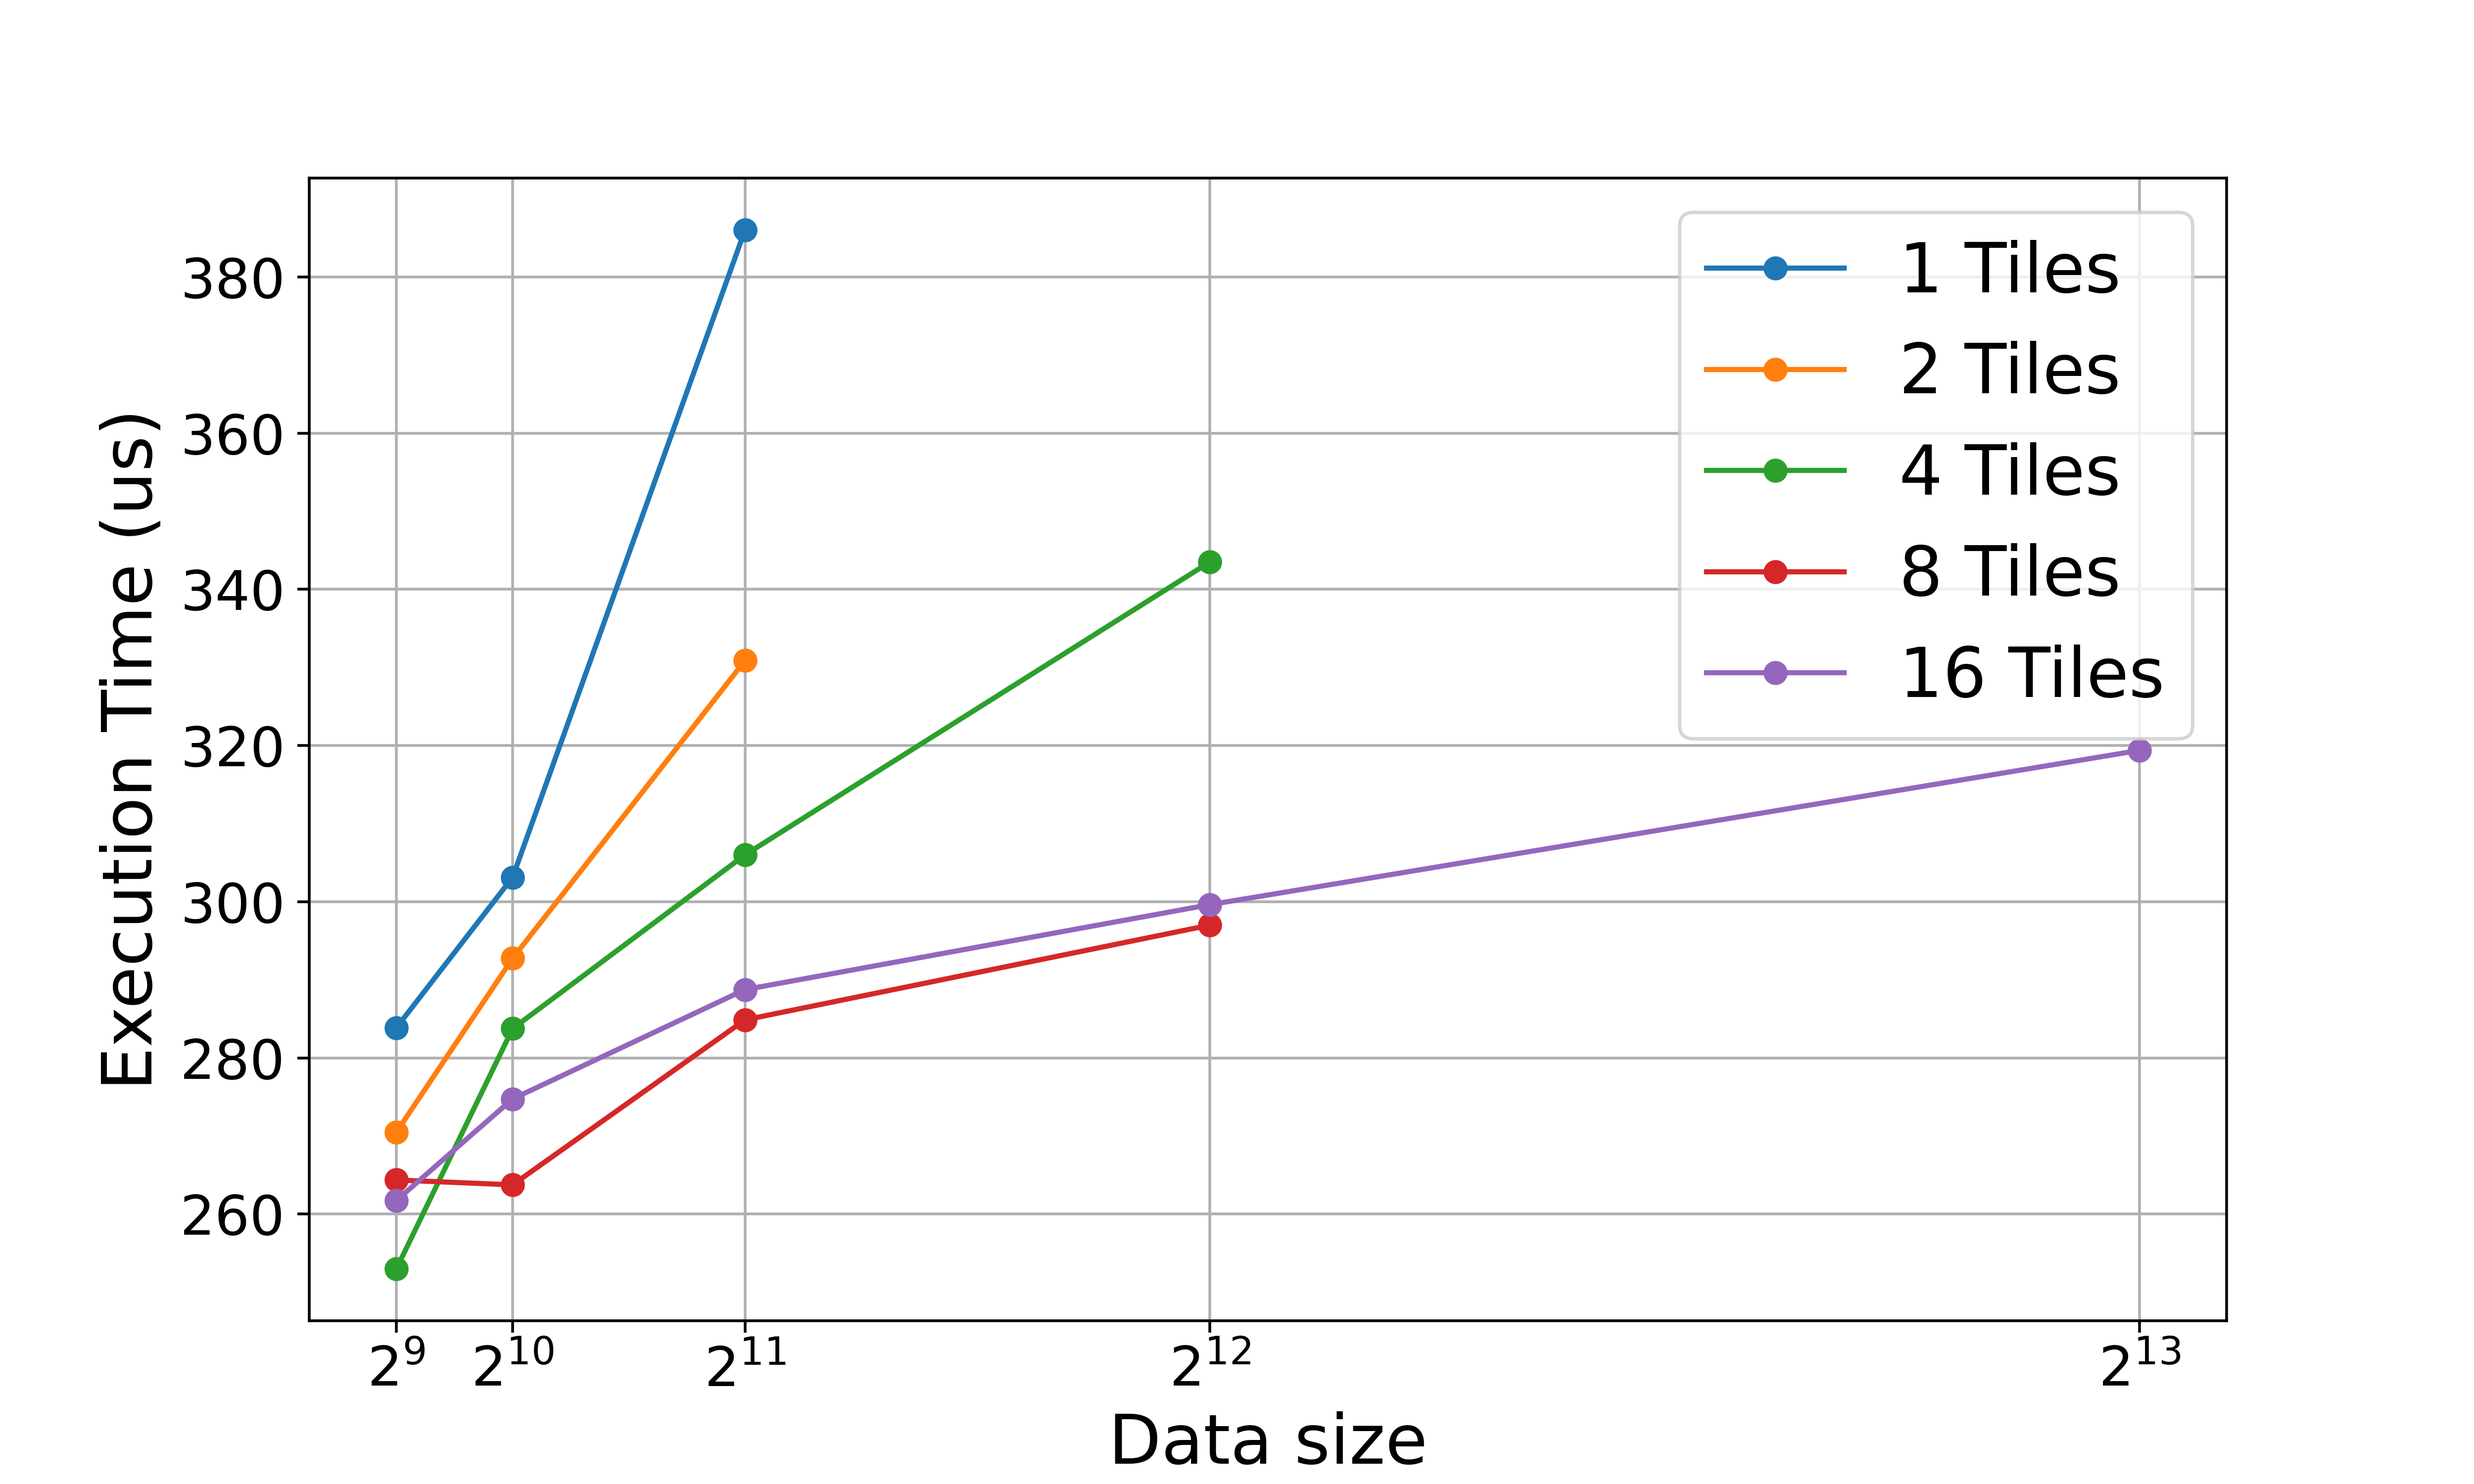
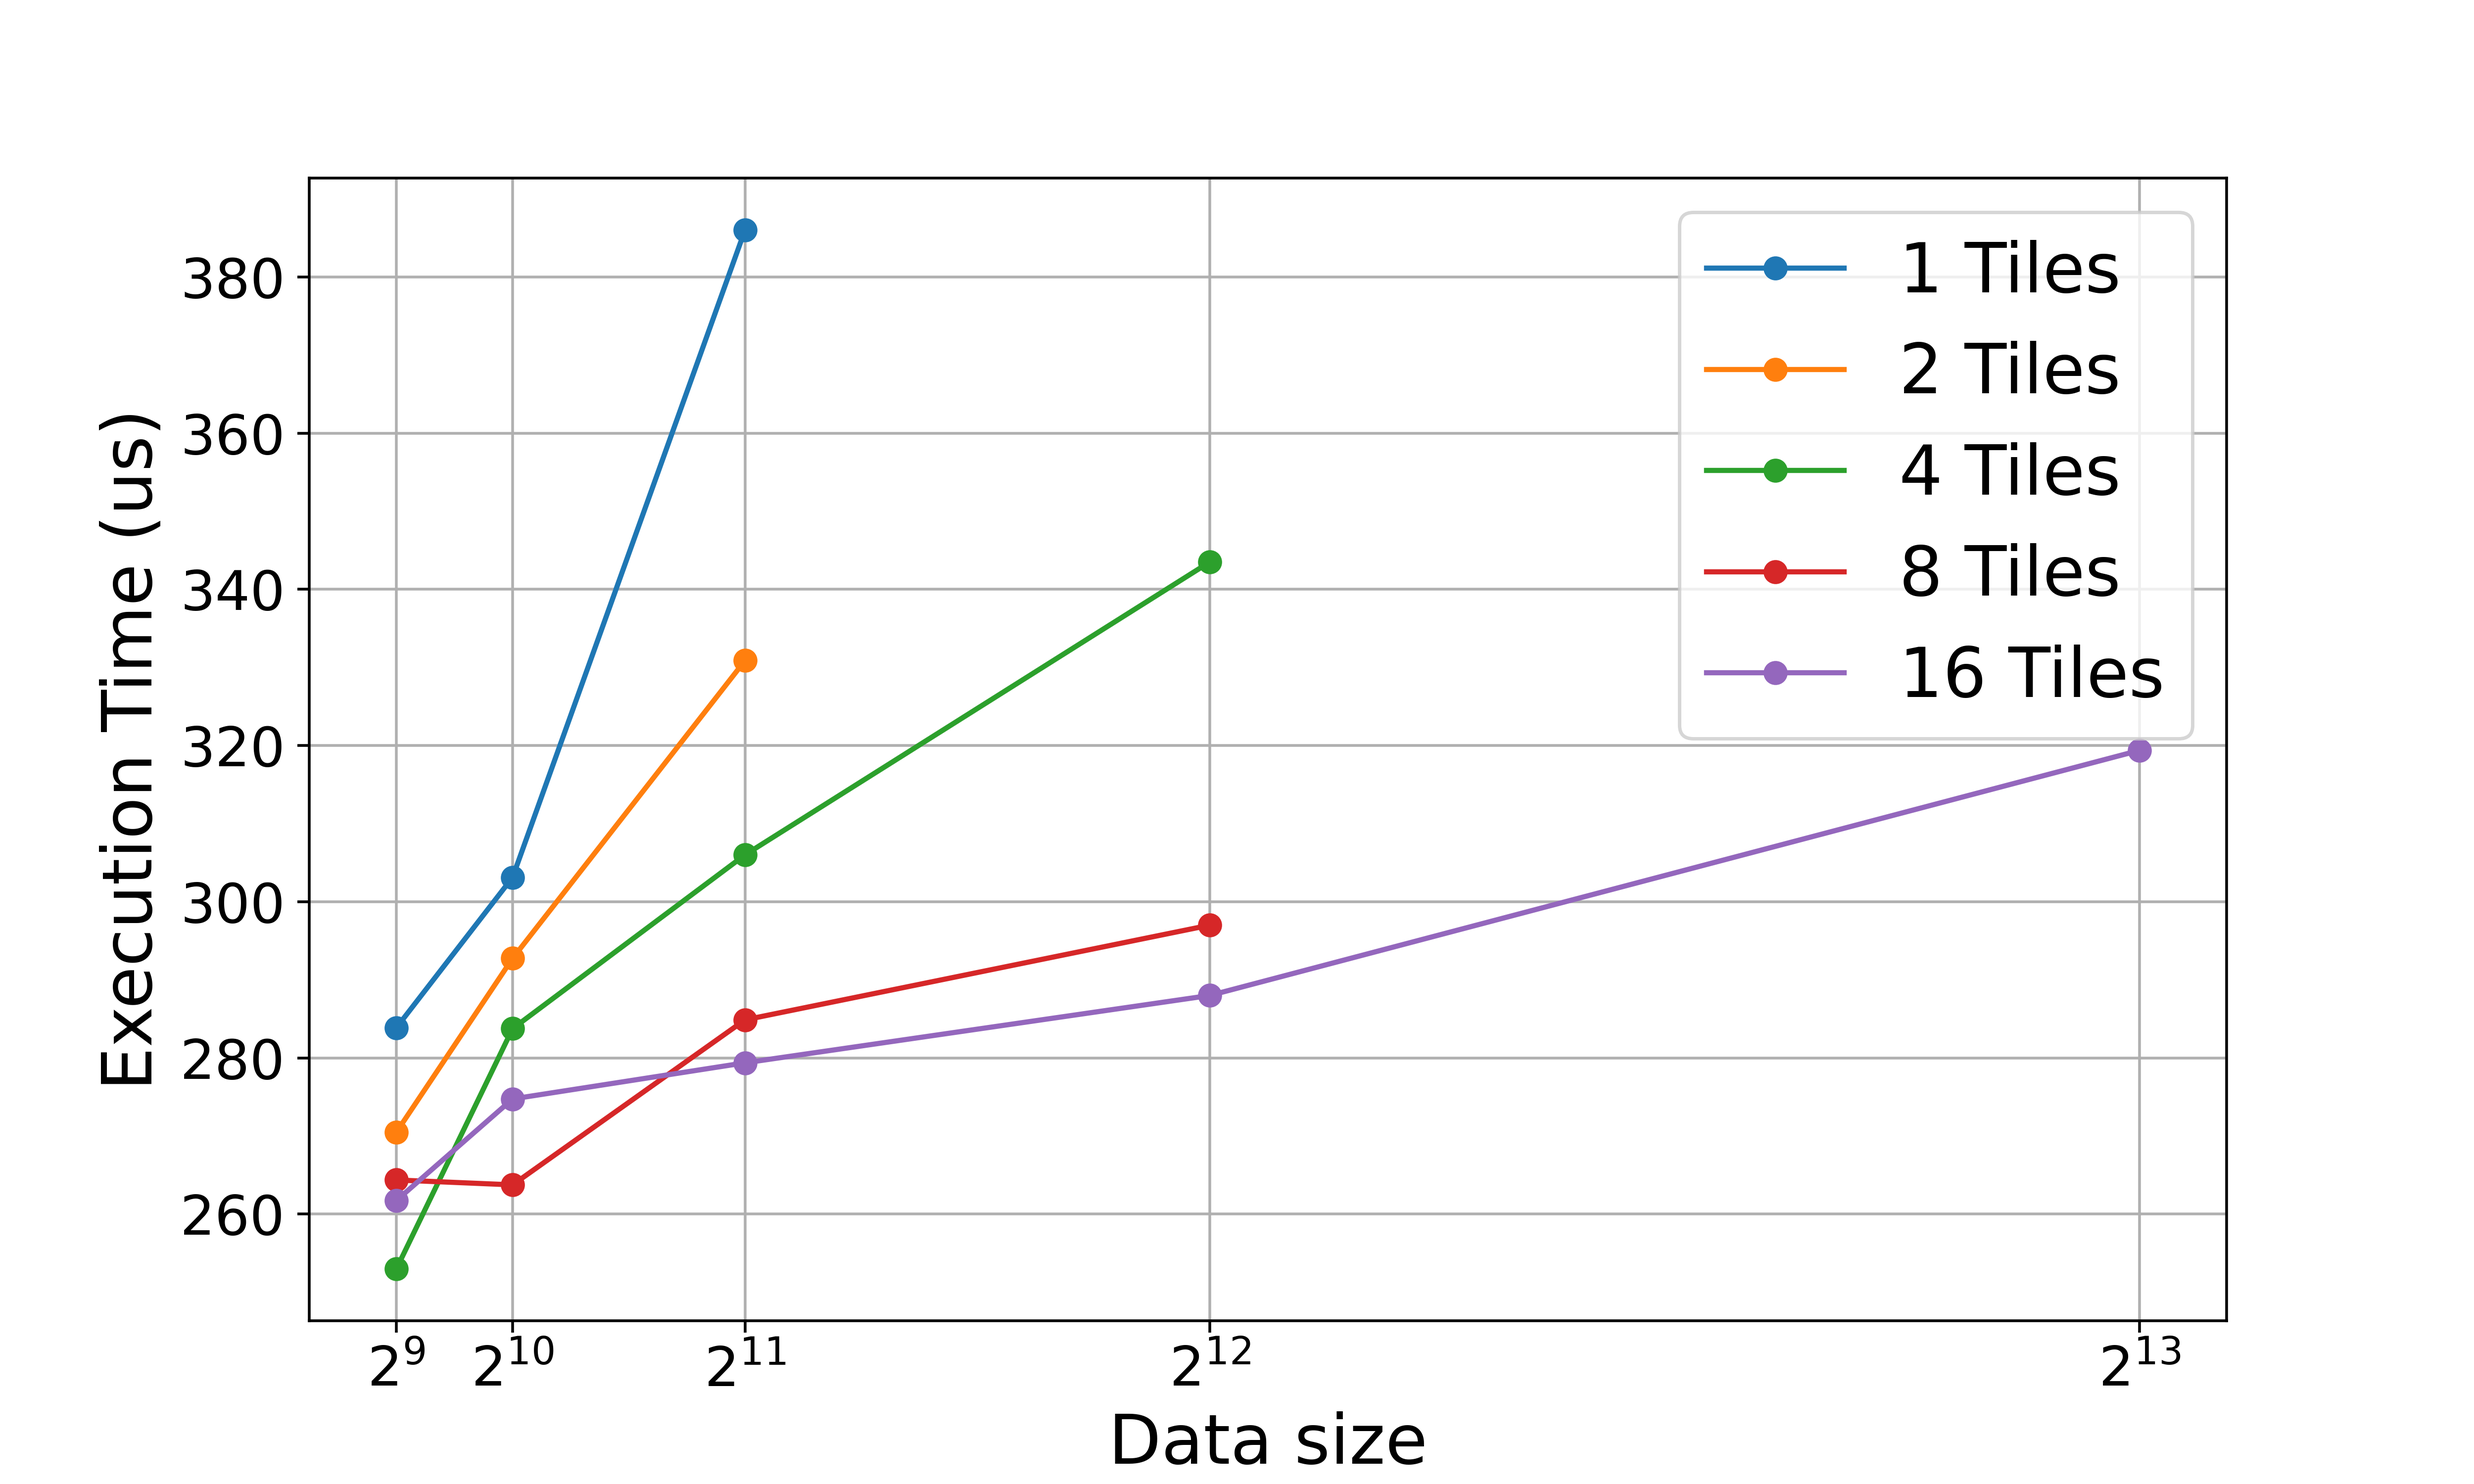
update'

diff --git a/test.cpp b/test.cpp
@@ -45,7 +45,7 @@ int main(int argc, const char *argv[]) {
   // ============================
   // Test Parameters
   // ============================
-  constexpr int64_t n = 12;
+  constexpr int64_t n = 11;
   constexpr int32_t test_stage = n - 1;  
   
   //const int block_num = 4;

diff --git a/ntt-16core/aie2.py b/ntt-16core/aie2.py
@@ -19,7 +19,7 @@ import aie.utils.trace as trace_utils
 
 
 def ntt():
-    logN = 9
+    logN = 11
     N = 1 << logN
     N_in_bytes = N * 4
     p = 3329
